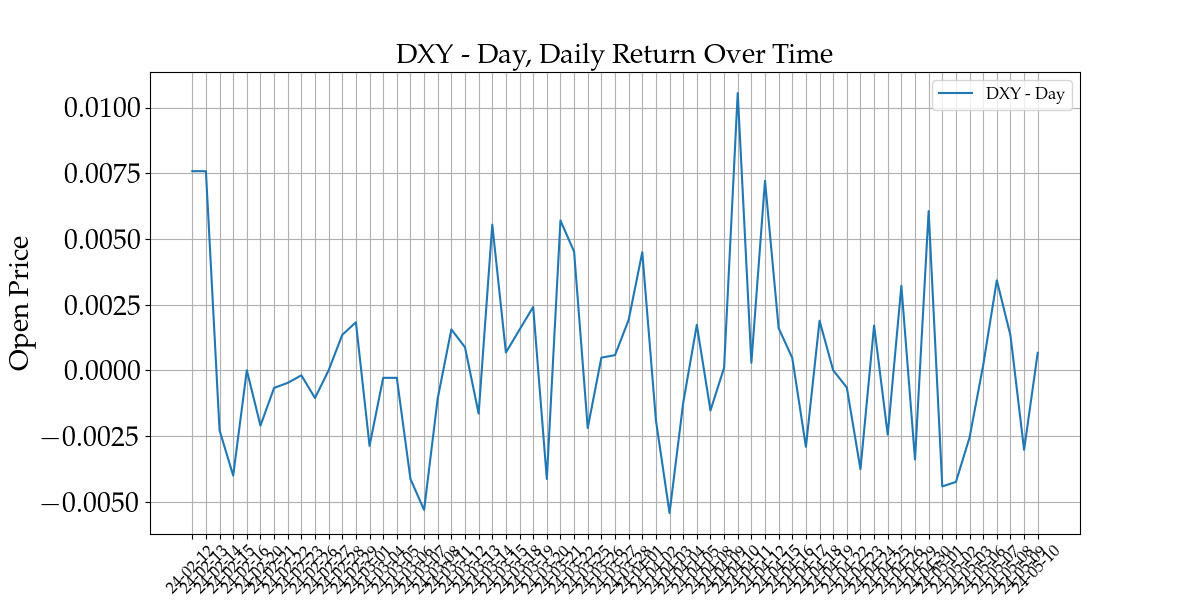
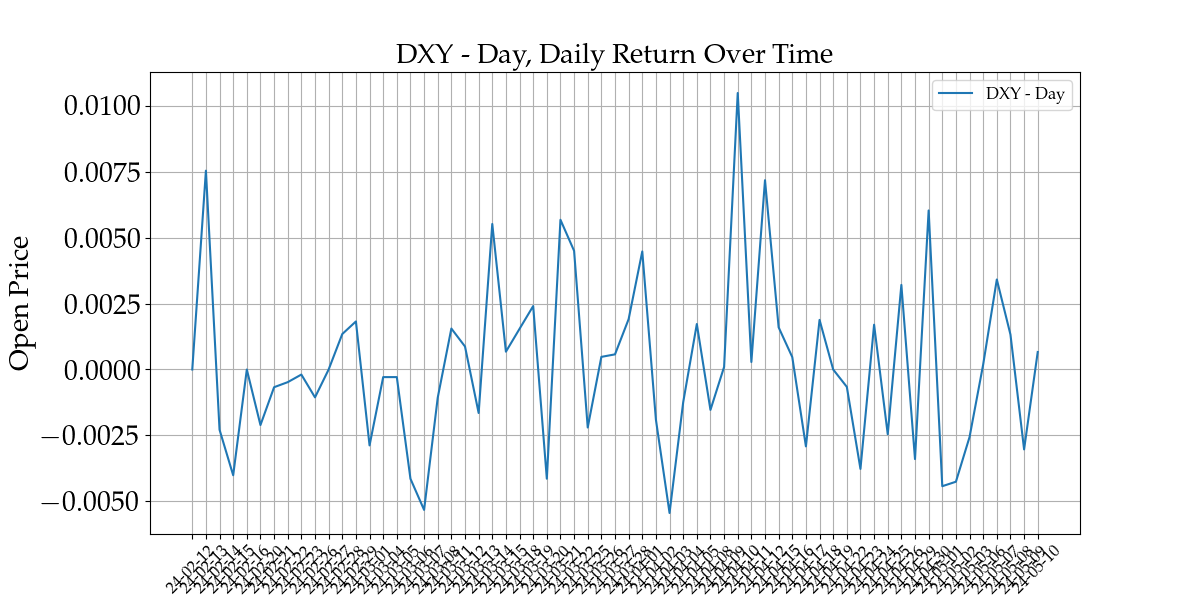
add iterative training of GPR
add iterative training of GPR

diff --git a/Multi-Input_GPR/main.py b/Multi-Input_GPR/main.py
@@ -347,6 +347,107 @@ class MultiInputGPR:
         # Return two-day predictions
         return [f_mean[-5:], f_cov[-5:], Y_actual[-5:]]
     
+    # Re-train model iteratively
+    def run_step_4(self) -> None:
+        f_means = []
+        f_vars = []
+        actual_returns = []
+         #1. Fetch the actual values of to-be-predicted stock data(e.g. APPL stock price)
+        X_AAPL_tf, Y_AAPL_tf, AAPL_dates, (AAPL_mean, AAPL_std), (x_mean, x_std) = self.data_handler.process_data("Stocks", self.ticker, "d", self.train_start_date, self.train_end_date, self.predict_Y, isFetch=True, isDenoised=False, isFiltered=False)
+        X_AAPL_full_tf, Y_AAPL_full_tf, AAPL_full_dates, (AAPL_full_mean, AAPL_full_std), (x_mean_full, x_std_full) = self.data_handler.process_data("Stocks", self.ticker, "d", self.train_start_date, self.test_end_date, "return", isFetch=True, isDenoised=False, isFiltered=False)
+
+        #2. Fetch input data(e.g. Brent Oil / MSFT stock price)
+        # X columns vector for training
+        _X = []
+        # X columns vector for testing
+        X_full = []
+        for feature in self.features:
+            if feature == "Brent_Oil" or feature == "DXY" or feature == "XAU_USD":
+                X_tf, Y_tf, dates, (y_mean, y_std), (x_mean, x_std) = self.data_handler.process_data("Commodities", feature, "d", self.train_start_date, self.train_end_date, self.predict_Y, isFetch=False, isDenoised=False, isFiltered=False)
+                X_full_tf, Y_full_tf, full_dates, (y_full_mean, y_full_std), (x_full_mean, x_full_std)= self.data_handler.process_data("Commodities", feature, "d", self.train_start_date, self.test_end_date, "return", isFetch=False, isDenoised=False, isFiltered=False)
+            elif feature == "SP500" or feature == "NasDaq100":
+                X_tf, Y_tf, dates, (y_mean, y_std), (x_mean, x_std) = self.data_handler.process_data("Stocks/index", feature, "d", self.train_start_date, self.train_end_date, self.predict_Y, isFetch=False, isDenoised=False, isFiltered=False)
+                X_full_tf, Y_full_tf, full_dates, (y_full_mean, y_full_std), (x_full_mean, x_full_std) = self.data_handler.process_data("Stocks/Index", feature, "d", self.train_start_date, self.test_end_date, "return", isFetch=False, isDenoised=False, isFiltered=False)
+            else:
+                X_tf, Y_tf, dates, (y_mean, y_std), (x_mean, x_std) = self.data_handler.process_data("Stocks", feature, "d", self.train_start_date, self.train_end_date, self.predict_Y, isFetch=True, isDenoised=False, isFiltered=False)
+                X_full_tf, Y_full_tf, full_dates, (y_full_mean, y_full_std), (x_full_mean, x_full_std) = self.data_handler.process_data("Stocks", feature, "d", self.train_start_date, self.test_end_date, "return", isFetch=True, isDenoised=False, isFiltered=False)
+            visualizer = Visualizer()
+            visualizer.plot_data(X_tf, Y_tf, dates, title=f'{feature} - Day', mean=y_mean, std=y_std, filename=f'../plots/multi-input/{feature}_log_return.png')
+
+            # Calculate correlation between X and Y
+            corr = self.calculate_correlation(Y_tf * y_std + y_mean, Y_AAPL_tf * AAPL_std + AAPL_mean)
+            print(f"Correlation between {feature} and {self.ticker}: {corr:.4f}")
+
+            if np.abs(corr) > self.threshold:
+                _X.append(Y_tf)
+                X_full.append(Y_full_tf)
+                print(f"Selected {feature} for training")
+            else:
+                print(f"Discarded {feature} for training")
+
+        #3. Concatenate multi-dimenstional input data X = [X1, X2, ...], as days * features vector
+        # X_AAPL_tf should be equal to X_tf
+        
+        ## Add Time as a feature
+        _X.append(X_AAPL_tf)
+        X = self.data_handler.concatenate_X(_X)
+
+        Y = Y_AAPL_tf
+        self.full_correlations(X, Y)
+
+         # add test data to predict as well
+        X_full.append(X_AAPL_full_tf)
+        X_full = self.data_handler.concatenate_X(X_full)
+        self.kernel_combinations = [
+            self.create_composite_kernel(X.shape[1], k1, k2)
+            for k1, k2 in self.kernel_combinations
+        ]
+
+        for i in range(len(Y_AAPL_tf), len(Y_AAPL_full_tf) - 1):
+            #4. Train the model with the input data and the actual values of to-be-predicted stock data
+            print(X_full[:i].shape[1])
+            
+            
+            for composite_kernel in self.kernel_combinations:
+                if self.isFixed:
+                    model = gpflow.models.GPR(
+                        (X_full[:i], Y_AAPL_full_tf[:i]), kernel=deepcopy(composite_kernel), noise_variance=1e-3
+                    )
+                    
+                    model = ModelTrainer.train_model(model)
+                else:
+                    model = ModelTrainer.train_likelihood(X_full[:i], Y_AAPL_full_tf[:i], composite_kernel)
+
+           
+            # predict the mean and variance of the to-be-predicted stock data using the trained model, with input X vector of days * features
+            f_mean, f_cov = model.predict_f(X_full[:i+1], full_cov=False)
+            print(f"f_mean: {f_mean[-1]}")
+            print(f"f_cov: {f_cov[-1]}")
+
+            # Calculate mse for all train and test data
+            # Actually should only calculate the test period data
+            mse_test = mean_squared_error(Y_AAPL_full_tf[:i+1], f_mean.numpy())
+            print(f"Mean Squared Error Normalized: {mse_test:.4f}")
+
+            print(f"Mean: {AAPL_full_mean}, Std: {AAPL_full_std}")
+            f_mean = f_mean * AAPL_full_std + AAPL_full_mean
+            Y_actual = Y_AAPL_full_tf[:i+1] * AAPL_full_std + AAPL_full_mean
+            f_cov = f_cov * AAPL_full_std ** 2
+
+            
+            mse_test = mean_squared_error(Y_actual, f_mean.numpy())
+            print(f"Mean Squared Error DeNormalized: {mse_test:.4f}")
+
+            #visualizer.plot_GP(X_AAPL_full_tf, Y_actual, f_mean, f_cov, title=f"{self.ticker} / Day, predicted by features", filename=f'../plots/multi-input/future_predictions_{self.ticker}.png')
+
+            f_means.append(f_mean[-1])
+            f_vars.append(f_cov[-1])
+            actual_returns.append(Y_AAPL_full_tf[i])
+
+        # Return two-day predictions
+        return [f_means, f_vars, actual_returns]
+
+
     def run_arima(self) -> None:
         
         df = self.data_handler.process_df("Stocks", self.ticker, "d", self.train_start_date, self.train_end_date, 'close')
@@ -380,7 +481,7 @@ if __name__ == "__main__":
     portolio_assets = [ticker1, ticker2, ticker3, ticker4, ticker5]
 
     timeframes = ['d', 'w', 'm']
-    predict_Y = 'return'
+    predict_Y = 'daily_log_return'
 
     # Risk-free rate (daily)
     risk_free_rate = 0.01 / 252  
@@ -425,7 +526,8 @@ if __name__ == "__main__":
             removal_percentage=0.1,
             isFixedLikelihood=False
         )
-        predicted = multiInputGPR.run_step_3()
+        #predicted = multiInputGPR.run_step_3()
+        predicted = multiInputGPR.run_step_4()
         
         # [ [asset1 over 5 days], [asset2 over 5 days], ...]
         predicted_values.append(predicted[0])
